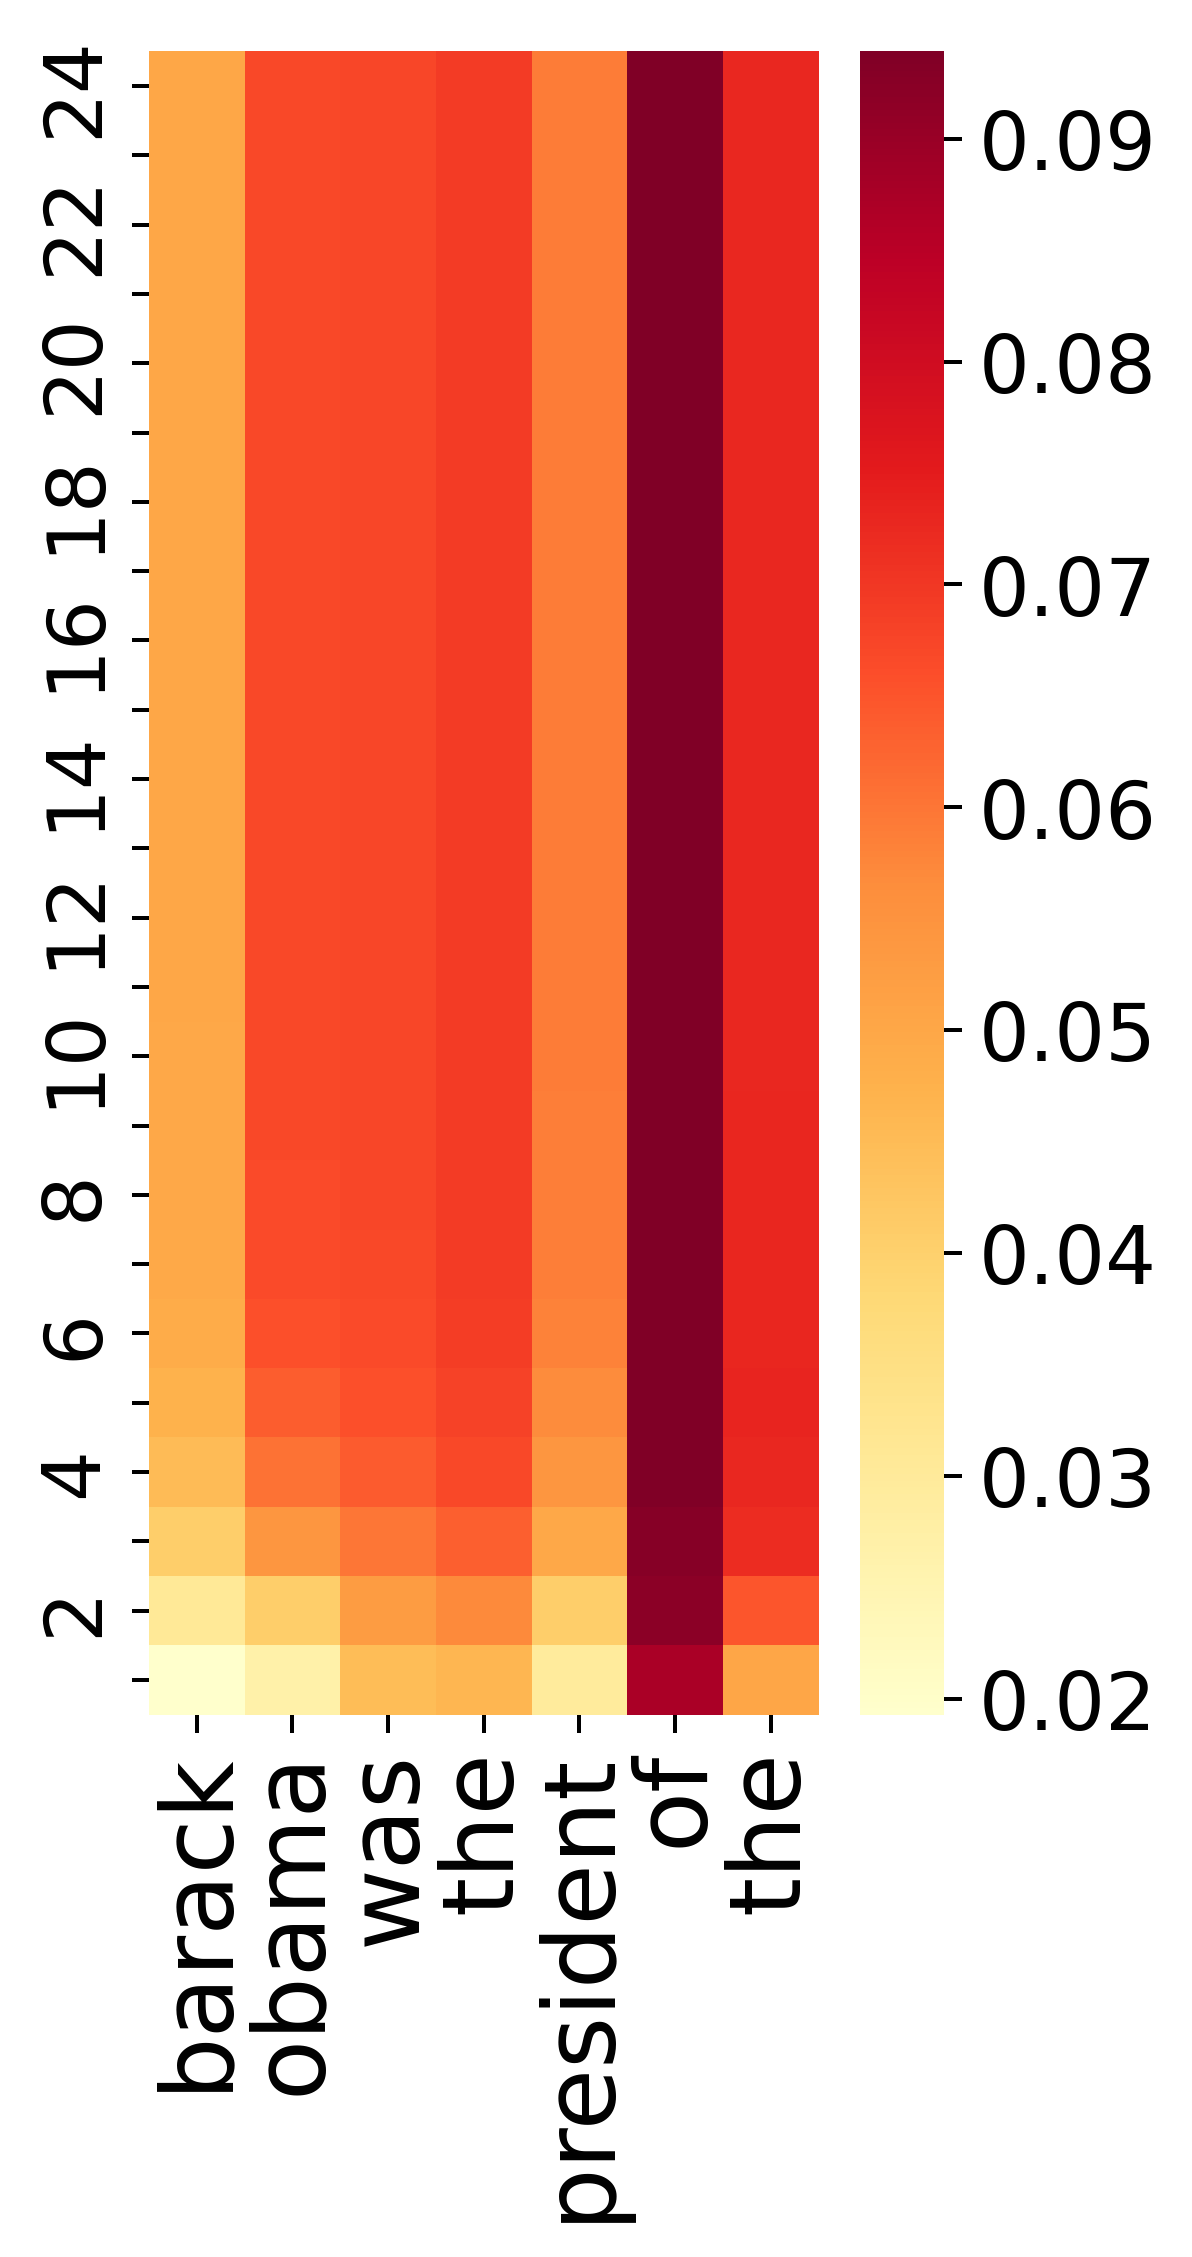
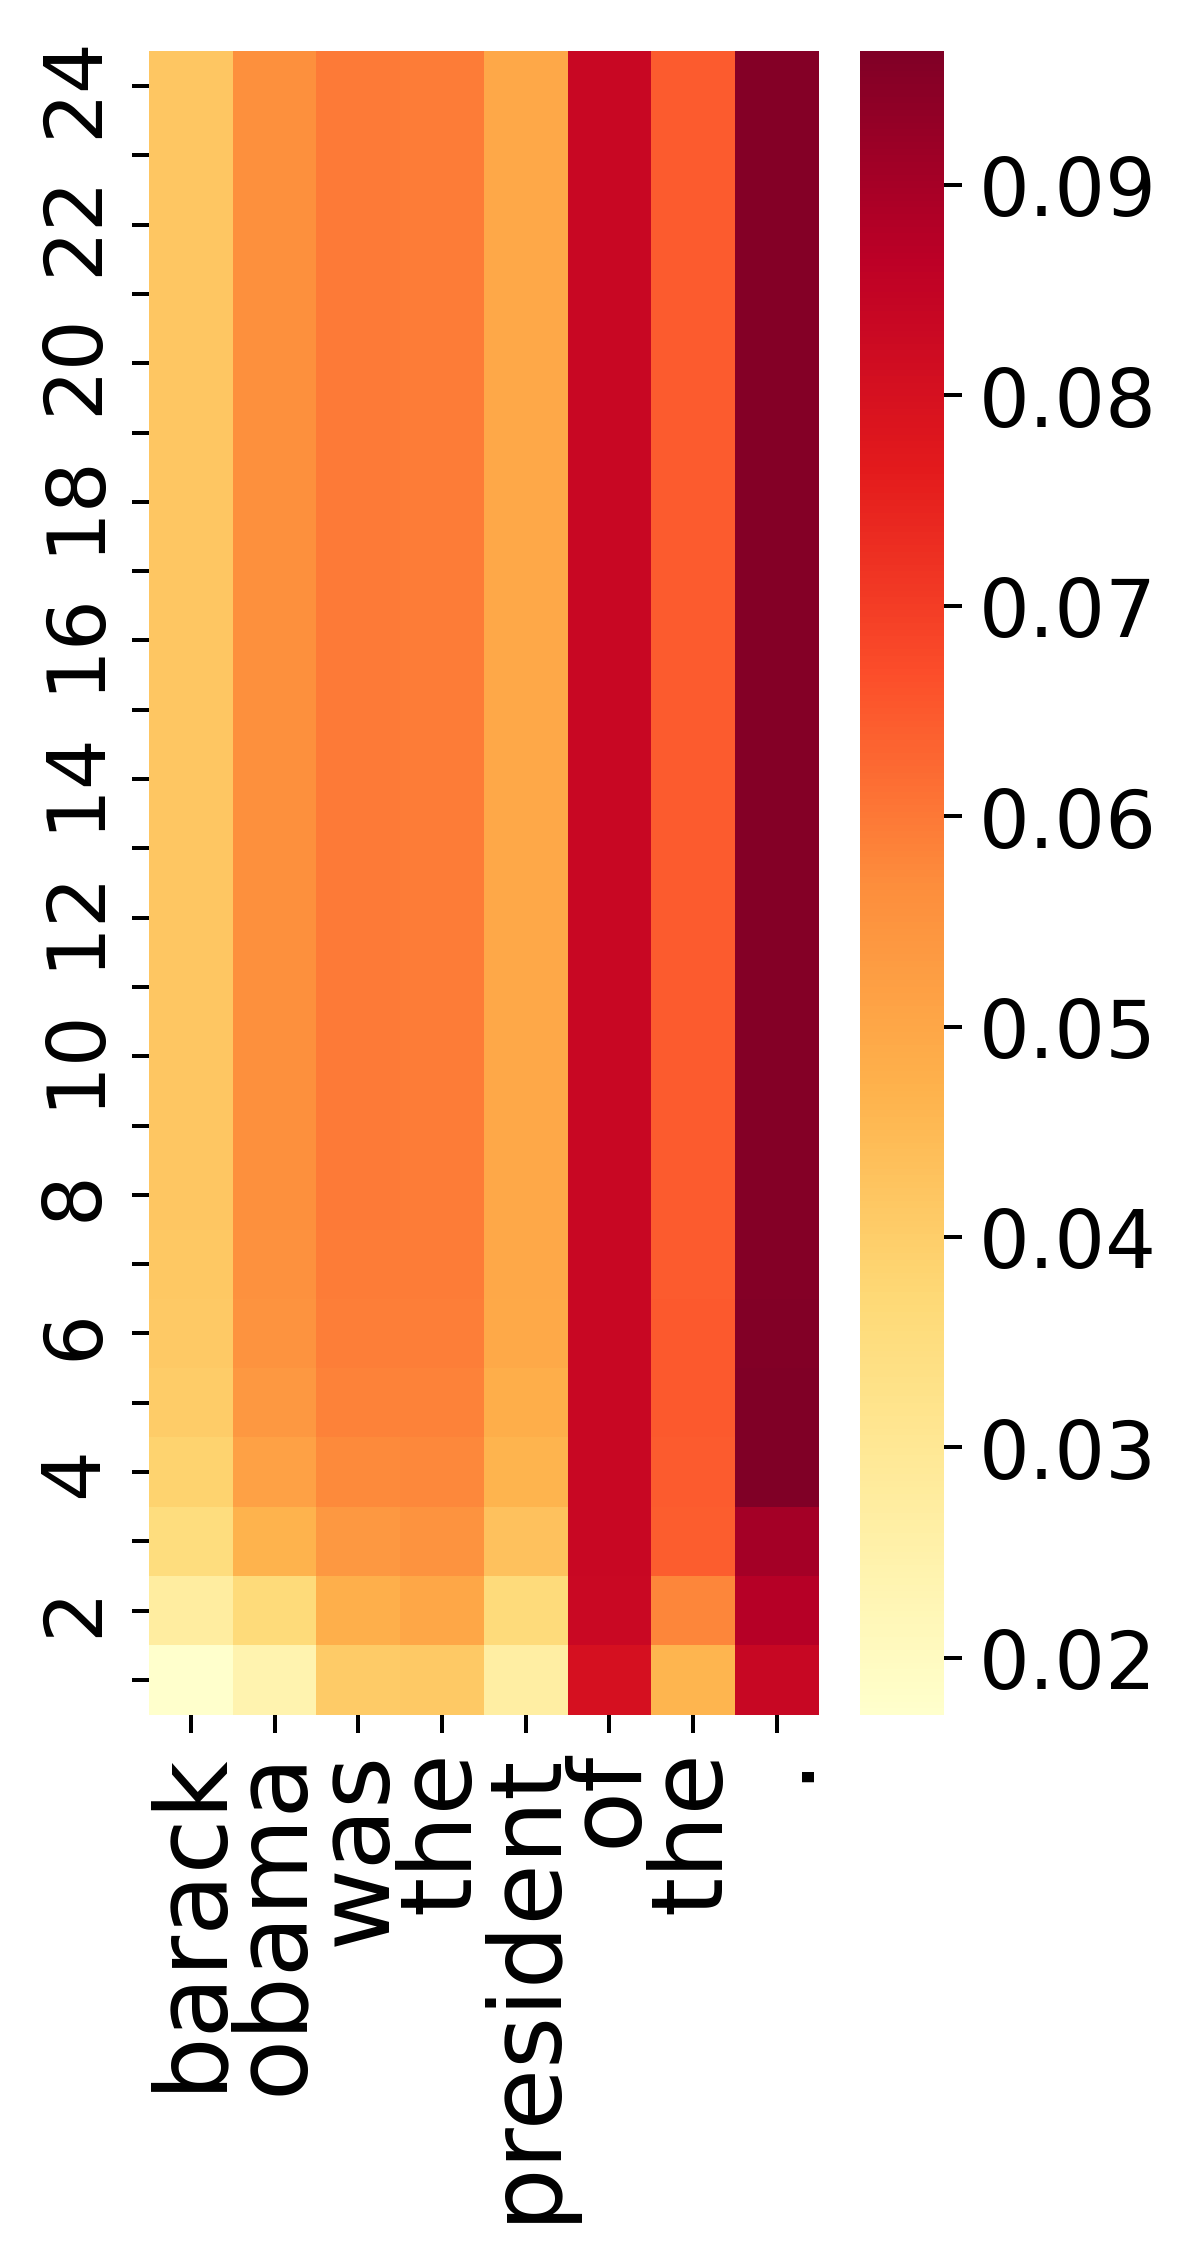
adding final dot to sentences 3,5,8

diff --git a/bert_example-checkpoint.py b/bert_example-checkpoint.py
@@ -105,7 +105,7 @@ src[2] = 7
 targets[2] = (2,5) # author, sara
 candidates[2] = ('his', 'her')
 
-sentences[3] = "John tried to convince Mary of his love and brought flowers for "+tokenizer.mask_token
+sentences[3] = "John tried to convince Mary of his love and brought flowers for "+tokenizer.mask_token + "."
 src[3] = 13
 targets[3] = (1,5) # john, mary
 candidates[3] = ('her', 'him')
@@ -116,7 +116,7 @@ targets[4] = (1,3) # mary, john
 candidates[4] = ('her', 'his')
 
 
-sentences[5] = "Barack Obama was the president of the " + tokenizer.mask_token
+sentences[5] = "Barack Obama was the president of the " + tokenizer.mask_token + "."
 src[5] = 8
 targets[5] = (1, 2) # Barack, Obama
 candidates[5] = ('usa', 'us')
@@ -131,7 +131,7 @@ src[7] = 5
 targets[7] = (1, 4) # Why, sky
 candidates[7] = ('blue', 'dark')
 
-sentences[8] = "If Paul's wife is Mary, Mary's husband is " + tokenizer.mask_token
+sentences[8] = "If Paul's wife is Mary, Mary's husband is " + tokenizer.mask_token + "."
 src[8] = 14
 targets[8] = (2, 7) # Paul, Mary
 candidates[8] = ('paul', 'mary')
@@ -287,7 +287,7 @@ for ex_id in range(0 , 9):
     plot_attention_heatmap(
     joint_attentions, 
     s_pos_corrigida, 
-        t_positions=tuple([i for i in range(len(tokens)) if i!= src[ex_id]-1]), 
+    t_positions=tuple([i for i in range(len(tokens)) if i!= src[ex_id]-1]), 
     # t_positions=t_pos_corrigidas, 
     tokens_list=tokens 
     )
